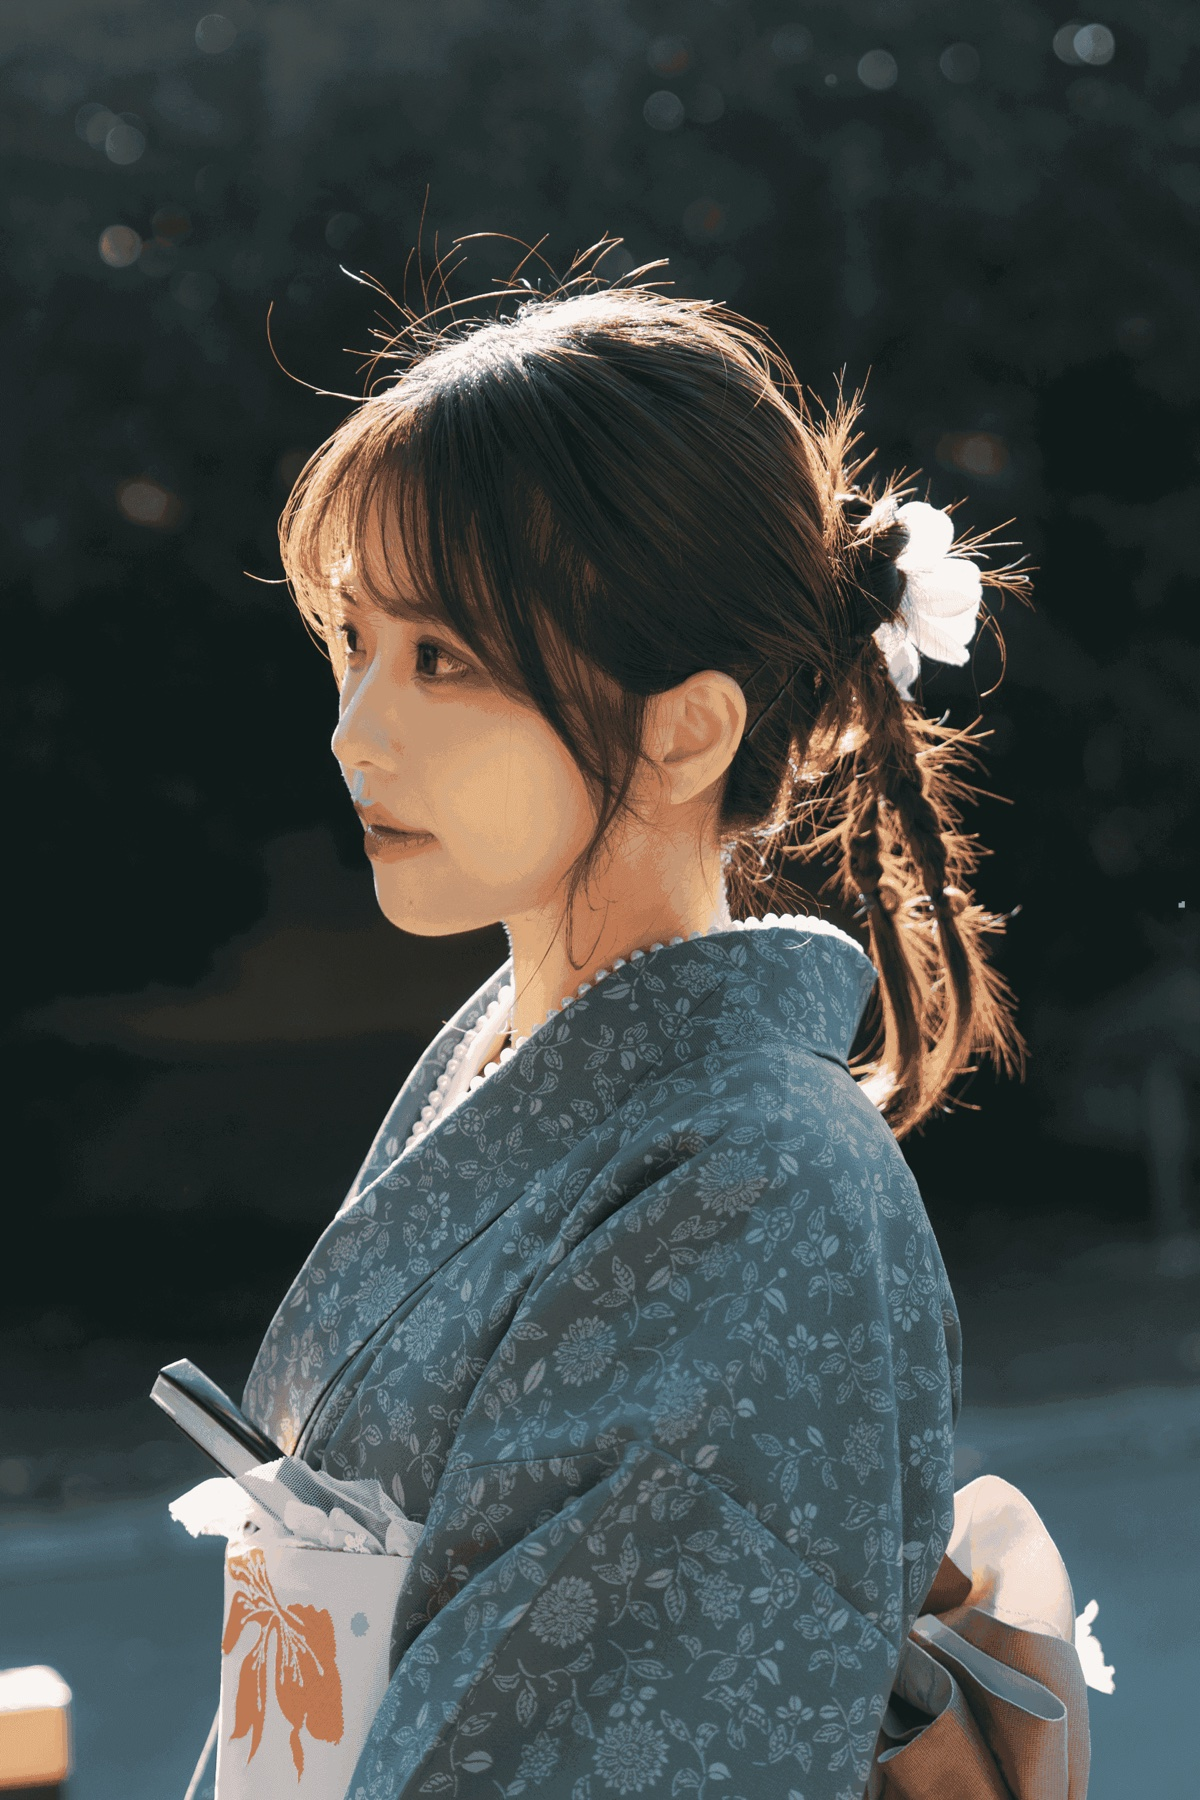
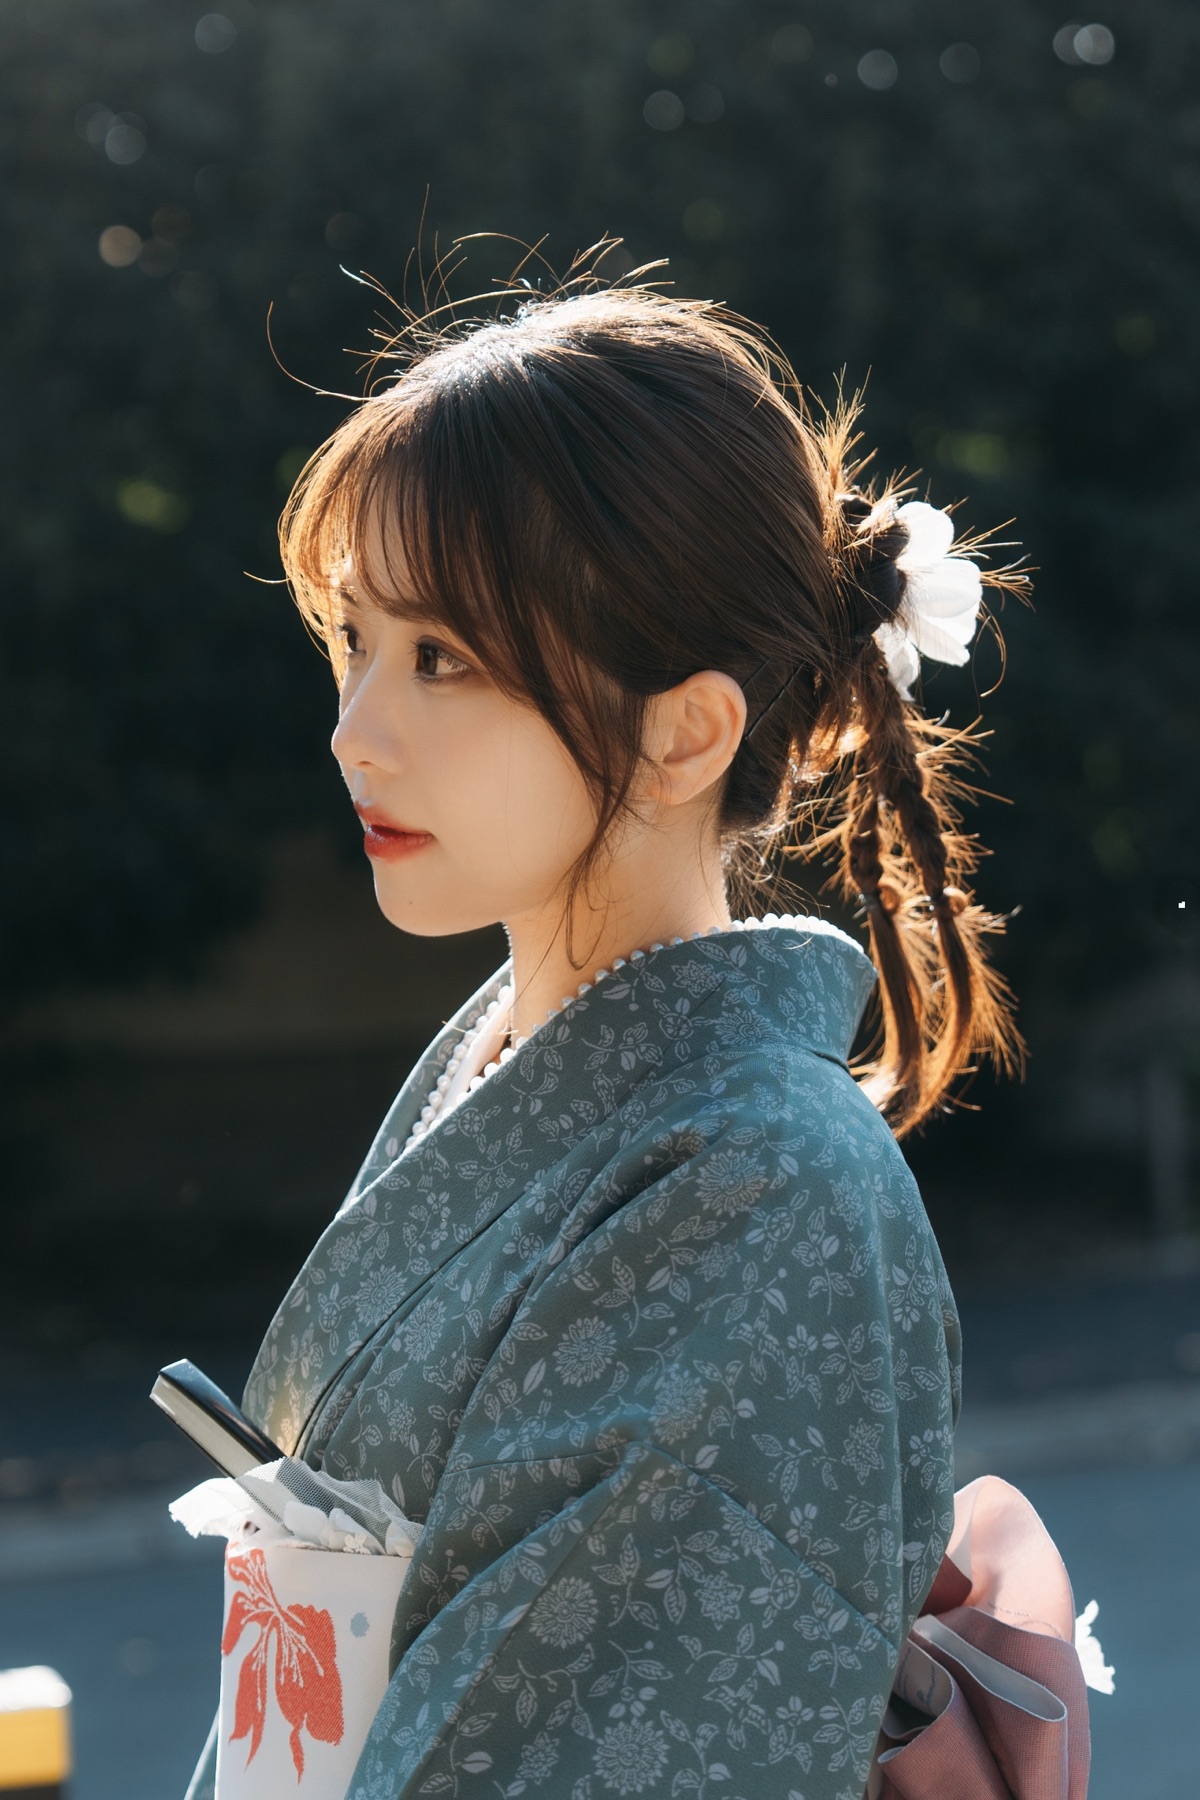
fix: Kimono & Matcha Experience 同行顯示、重壓 cover3、移除 photo_plan_cover2
- H3 標題加入 white-space: nowrap 確保英文版不換行
- 重新壓縮 cover3.jpg（5.8MB → 417KB，保留 sRGB profile）
- 移除 photo_plan_cover2.jpg 及其輪播程式碼

diff --git a/app.js b/app.js
@@ -4077,7 +4077,7 @@
                                 <div style="font-size: 4rem; font-weight: 300; color: #544739; line-height: 1; margin-bottom: 1.5rem; font-family: 'Cormorant Garamond', serif;">
                                     C
                                 </div>
-                                <h3 style="font-size: 1.25rem; font-weight: 300; color: #544739; margin: 0 0 0.5rem 0; text-align: center; letter-spacing: 0.1em;">
+                                <h3 style="font-size: 1.25rem; font-weight: 300; color: #544739; margin: 0 0 0.5rem 0; text-align: center; letter-spacing: 0.1em; white-space: nowrap;">
                                     ${t('和服抹茶體驗')}
                                 </h3>
                                 <p style="font-size: 0.875rem; color: #6b7280; margin: 0 0 1.5rem 0; text-align: center; white-space: nowrap;">
@@ -5068,11 +5068,6 @@
                         <div class="mySlides fade">
                             <img src="img/photo_plan_cover1.jpg" alt="${t('京都清水寺和服攝影 - NicoNico 專業攝影方案')}" class="photo-plans-hero-image-fullwidth" onerror="this.src='https://placehold.co/1200x600/cccccc/000000?text=${encodeURIComponent(t('攝影方案封面'))}'">
                     </div>
-                        <div class="mySlides fade">
-                            <img src="img/photo_plan_cover2.jpg" alt="${t('京都八阪神社和服攝影 - NicoNico 專業隨拍服務')}" class="photo-plans-hero-image-fullwidth" onerror="this.src='https://placehold.co/1200x600/cccccc/000000?text=${encodeURIComponent(t('攝影方案封面'))}'">
-                </div>
-                        <button class="prev" onclick="plusSlides(-1)"></button>
-                        <button class="next" onclick="plusSlides(1)"></button>
                         <!-- Overlay Text -->
                         <div class="photo-plans-hero-overlay">
                             <h1 class="photo-plans-hero-title">${t('攝影方案')}</h1>
